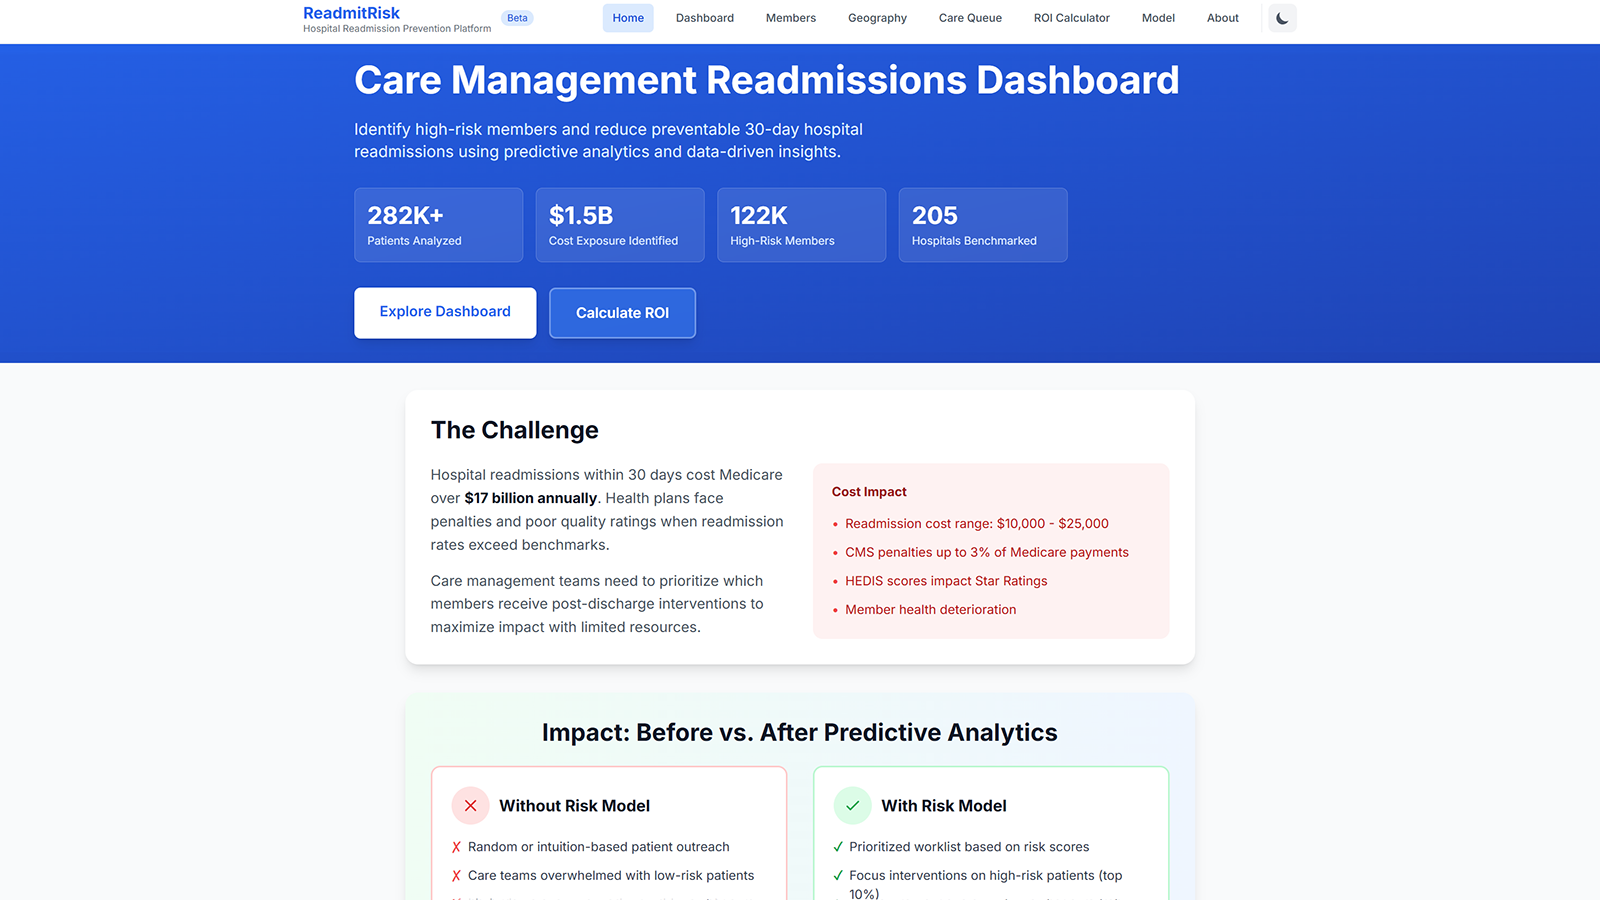
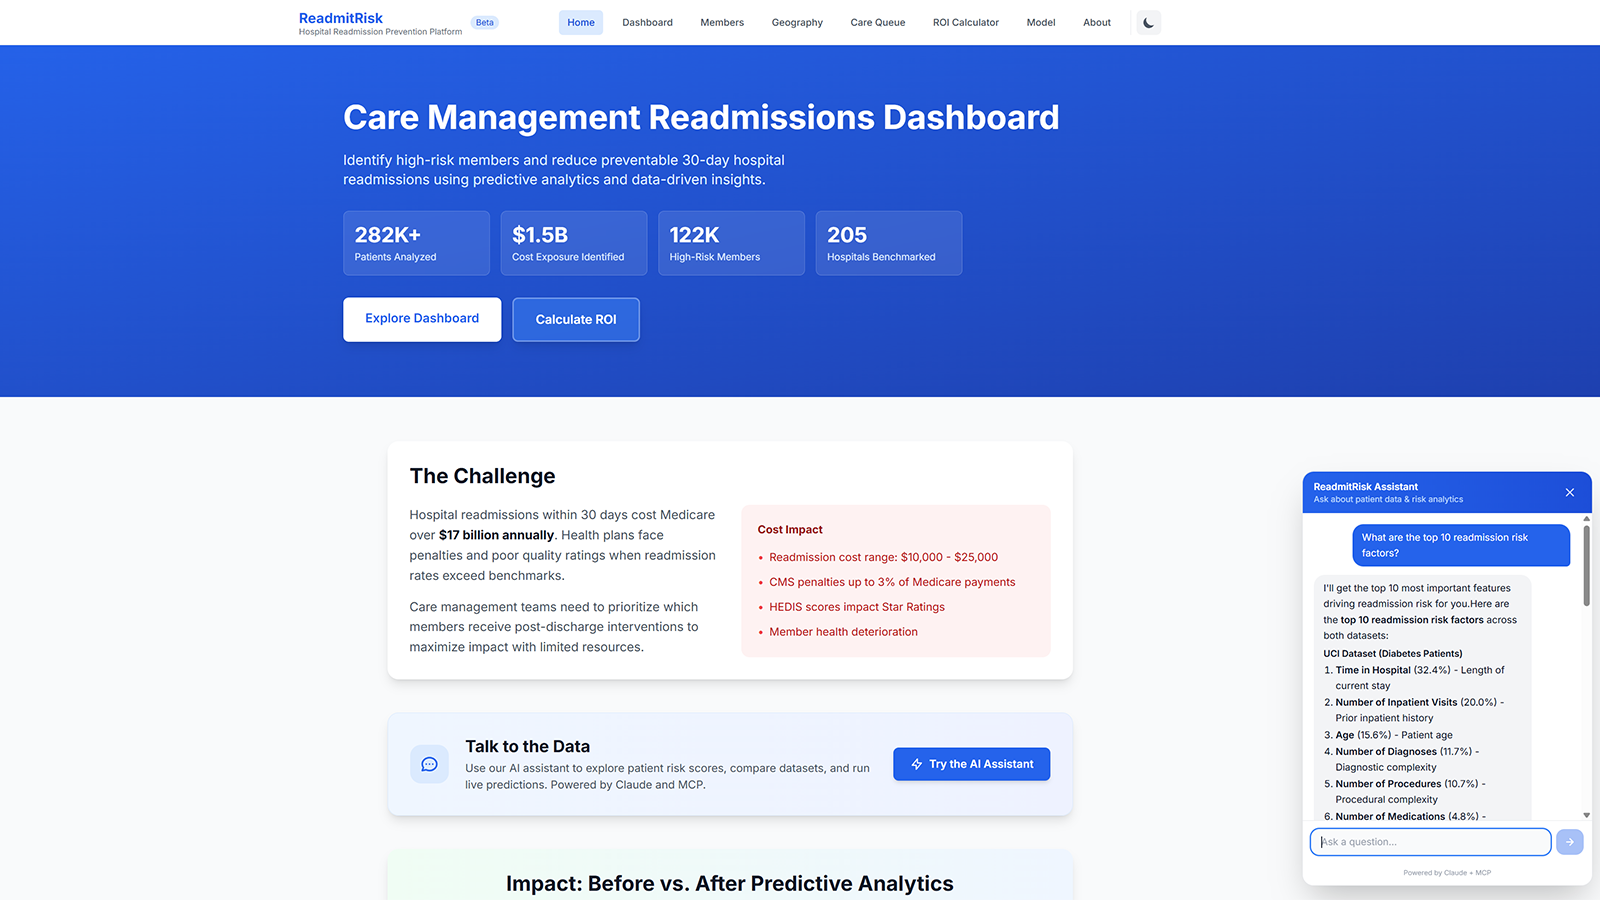
Update ReadmitRisk project with AI chat widget and system architecture
- Update description to highlight AI chat interface and Claude API integration
- Add chat widget feature bullet showing full data flow
- Add System Architecture section to project detail page
- Add FastAPI, Claude API, and SSE to tech stack
- Update screenshot

Changed region(s): [[0.0, 0.0, 1.0, 0.7467], [0.8125, 0.4978, 1.0, 1.0], [0.25, 0.8089, 0.6875, 1.0]]

diff --git a/data/projects.ts b/data/projects.ts
@@ -10,6 +10,7 @@ export interface Project {
   featured: boolean
   category: string
   features?: string[]
+  architecture?: string[]
   challenges?: string
 }
 
@@ -38,8 +39,8 @@ export const projects: Project[] = [
     slug: "readmit-risk",
     name: "ReadmitRisk",
     tagline: "Hospital Readmission Prevention Platform",
-    description: "A full-stack care management platform that identifies high-risk patients and prioritizes post-discharge interventions to reduce preventable hospital readmissions. Includes a remote MCP server on Railway so AI assistants can query patient risk data and run live ML predictions conversationally.",
-    tech: ["Next.js 14", "TypeScript", "Tailwind CSS", "Python", "scikit-learn", "Pandas", "Google BigQuery", "Recharts", "MCP", "Railway"],
+    description: "A full-stack care management platform that identifies high-risk patients and prioritizes post-discharge interventions to reduce preventable hospital readmissions. Features an AI-powered chat interface that lets users query patient risk data and run live ML predictions conversationally, powered by a custom MCP server deployed on Railway and the Anthropic Claude API.",
+    tech: ["Next.js 14", "TypeScript", "Tailwind CSS", "Python", "FastAPI", "scikit-learn", "Pandas", "Google BigQuery", "Recharts", "MCP", "Railway", "Claude API", "SSE"],
     liveUrl: "https://readmit-risk.vercel.app",
     githubUrl: "https://github.com/NateDevIO/readmit-risk",
     image: "/projects/readmit-risk-ss.png",
@@ -51,7 +52,15 @@ export const projects: Project[] = [
       "61-feature clinical model with demographic normalization and comprehensive feature importance analysis",
       "Interactive care management dashboard with risk stratification tiers (60%, 70%, 80% thresholds) and cost estimation",
       "Real-time data visualizations using Recharts with ROC-AUC curves, precision-recall metrics, and intervention tracking",
-      "Remote MCP server deployed on Railway exposing 7 tools (patient risk lookup, live ML predictions, hospital metrics) that any AI assistant can call via SSE transport"
+      "Remote MCP server deployed on Railway exposing 7 tools (patient risk lookup, live ML predictions, hospital metrics) that any AI assistant can call via SSE transport",
+      "AI-powered conversational interface with guided and freeform queries against live patient data, connecting a React chat widget → FastAPI backend → Anthropic Claude API → MCP server → ML models and datasets"
+    ],
+    architecture: [
+      "Chat widget embedded in the ReadmitRisk frontend (Next.js on Vercel)",
+      "FastAPI proxy backend deployed on Railway that handles Anthropic API calls and MCP routing",
+      "MCP server deployed on Railway exposing 7 tools: patient risk lookup, live predictions, dataset comparison, feature importance, risk distribution, hospital metrics, and model information",
+      "Claude processes natural language queries and selects appropriate MCP tools to answer",
+      "Responses stream back via SSE for a real-time conversational experience"
     ],
     challenges: "The project tackled significant ML challenges including handling severe class imbalance in readmission data using SMOTE oversampling, extracting and processing 211K ICU admissions from Google BigQuery with PhysioNet credentials, engineering 61 clinical features from raw MIMIC-IV data while maintaining HIPAA-compliant practices, implementing configurable probability thresholds for different risk tolerance levels, integrating multiple heterogeneous data sources (MIMIC-IV, UCI, CMS) with different schemas and feature sets, and building an intuitive care management interface that translates complex ML outputs into actionable clinical insights with cost-benefit analysis."
   },

diff --git a/app/projects/[slug]/page.tsx b/app/projects/[slug]/page.tsx
@@ -123,6 +123,19 @@ export default async function ProjectPage({ params }: Props) {
               </section>
             )}
 
+            {project.architecture && project.architecture.length > 0 && (
+              <section>
+                <h2 className="text-2xl font-semibold mb-4">System Architecture</h2>
+                <ol className="space-y-3 text-muted-foreground list-decimal list-inside">
+                  {project.architecture.map((step, index) => (
+                    <li key={index} className="leading-relaxed">
+                      {step}
+                    </li>
+                  ))}
+                </ol>
+              </section>
+            )}
+
             {project.challenges && (
               <section>
                 <h2 className="text-2xl font-semibold mb-4">Challenges & Solutions</h2>
